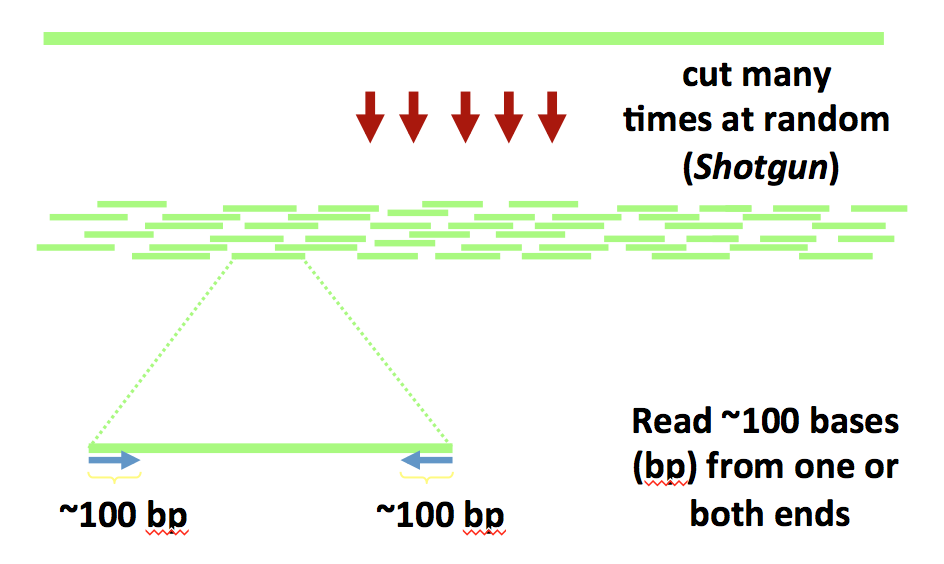
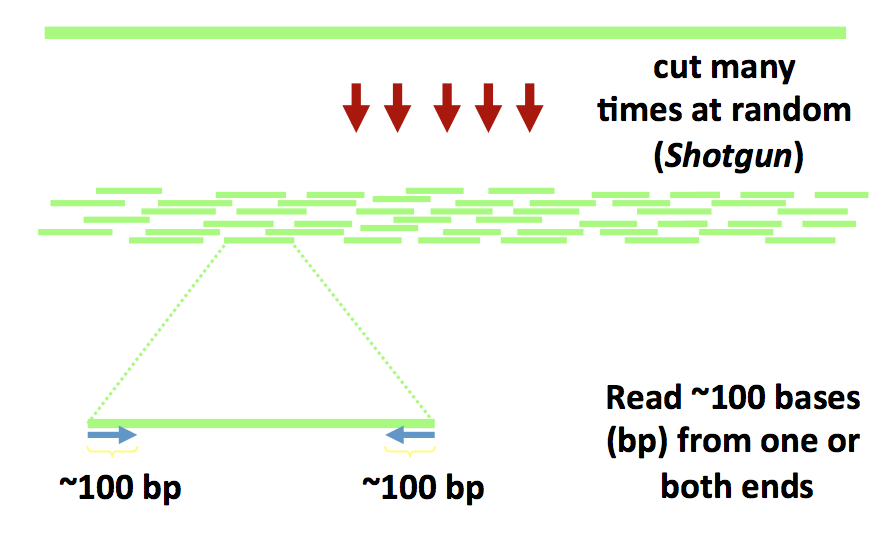
Figure and table cleanup

diff --git a/main.tex b/main.tex
@@ -1,6 +1,6 @@
 \documentclass{acm_proc_article-sp}
 
-
+\usepackage{array}
 \usepackage{caption}
 \usepackage{subfig}
 \captionsetup[subfigure]{margin=5pt}
@@ -94,7 +94,7 @@ As a result, the amount of genomic data available to
 researchers is increasing by a factor of ten every year.
 
 % YWY: Take spell-check lines out of figure axes labels! (TeraFLOPS, KiloBase)
-\begin{figure}[htb!]
+\begin{figure*}[htb!]
 \centering
 \subfloat[Growth of genomic sequence data (orange) as compared with the combined power of the top-500 supercomputer list (blue); y-axis is logarithmic]{
 \includegraphics[width=2.8in]{assets/moore.png}
@@ -106,7 +106,7 @@ researchers is increasing by a factor of ten every year.
 }
 \caption[Sequencing vs. Storage]{(a) Moore's and (b) Kryder's laws contrasted with genomic sequence data}
 \label{fig:growth}
-\end{figure}
+\end{figure*}
 
 This growth in data poses significant challenges for 
 researchers~\cite{marx2013biology}.
@@ -291,15 +291,15 @@ As read mapping is typically the most costly step in NGS analysis pipelines (e.g
 
 
 
-% YWY: Take spell-check lines out of figure labels! (bp, Samtools)
-\begin{figure}[htb!]
+
+\begin{figure*}[htb!]
 \centering
 \subfloat[`Shotgun' sequencing breaks DNA molecules into many short fragments, which are read from one or both ends in the form of {\em reads,\/} and relies on high coverage to produce a statistically likely representation of a whole genome]{
-\includegraphics[width=2.6in]{assets/shotgun.png}
+\includegraphics[height=2.6in]{assets/shotgun.png}
 \label{fig:shotgun}
 }
 \subfloat[Single-nucleotide polymorphisms, or SNPs, are the simplest type of genomic variant, and form the bulk of `variant-calling' analysis]{
-\includegraphics[width=2.6in]{assets/snps.png}
+\includegraphics[height=2.6in]{assets/snps.png}
 \label{fig:snps}
 }\\
 \subfloat[The NGS downstream analysis pipeline. Shotgun reads are mapped to a reference genome with tools such as BWA or Bowtie. The resulting genomic sequence is analyzed for variants with tools such as GATK or Samtools. This allows relationships between genes and diseases to be uncovered.]{
@@ -308,7 +308,7 @@ As read mapping is typically the most costly step in NGS analysis pipelines (e.g
 }
 \caption[The NGS Pipeline]{The next-generation sequencing (NGS) pipeline.}
 \label{fig:ngs}
-\end{figure}
+\end{figure*}
 
 Driven by the plummeting costs of next-generation sequencing, the 1000 Genomes Project~\cite{10002012integrated} is pursuing a broad catalog of human 
 variation; instead of producing a single reference genome for a species, many
@@ -558,29 +558,23 @@ evolution, only those protein
 sequences which exhibit useful biological function should survive, and most
 random sequences of amino acids would not be expected to form stable structures.
 Thus, not only do biological data exhibit redundancy, they also tend not to 
-inhabit anywhere near the entire feasible space (Figure~\ref{fig:clusters}).
+inhabit anywhere near the entire feasible space (Figure~\ref{fig:dataspace}).
 It seems that physical laws have constrained the data to a particular subspace
 of the enumerable Cartesian space.
 
 \begin{figure}[htb!]
 \centering
-\subfloat[Cartoon depiction of points in an arbitrary high-dimensional space, 
+\includegraphics[width=2.8in]{assets/treepoints-fractal.png}
+\caption{Cartoon depiction of points in an arbitrary high-dimensional space, 
 as might arise from genomes generated by mutation and selection during the 
 course of evolution. 
 Although high-dimensional locally, at the global scale of covering spheres, the 
 data cloud looks nearly 1-dimensional, which enables entropy-scaling of 
 similarity search. Clusters cover the data points but do not cover unoccupied 
-regions of space.]{
-\includegraphics[width=2.8in]{assets/treepoints.pdf}
-\label{fig:clusters}
-}
-\subfloat[A query (green triangle) and two concentric search radii (red 
+regions of space.
+The green triangle represents a query, with two concentric search radii (red 
 circles) around it. Thanks to low fractal dimension, the large circle does
-not contain vastly more points than the small circle.]{
-\includegraphics[width=2.8in]{assets/treepoints-fractal.png}
-\label{fig:fractal}
-}
-\caption[Data spaces.]{A cartoon illustration of a biological data space.}
+not contain vastly more points than the small circle.}
 \label{fig:dataspace}
 \end{figure}
 
@@ -592,7 +586,7 @@ low \emph{metric entropy}~\cite{yu2015entropy}.
 That is, for a given cluster radius $r_c$ and a database $D$, the number $k$ 
 of clusters needed to cover $D$ is bounded by $N_{r_c} (D)$, the metric 
 entropy, which is relatively small compared to
-$|D|$, the number of entries in the database (Figure~\ref{fig:clusters}).
+$|D|$, the number of entries in the database (Figure~\ref{fig:dataspace}).
 In contrast, if the points were uniformly distributed about the Cartesian space,
 $N_{r_c} (D)$ would be larger.
 
@@ -600,19 +594,19 @@ A second key insight is that the biological data sets have low \emph{fractal dim
 That is, within some range of radii $r_1$ and $r_2$ about an arbitrary point
 in the database $D$, the fractal dimension $d$ is
 $d=\frac{\log (n_2 / n_1)}{ \log (r_2 / r_1)}$, where $n_1$ and $n_2$ are the
-number of points within $r_1$ and $r_2$ respectively (Figure~\ref{fig:fractal}).
+number of points within $r_1$ and $r_2$ respectively (Figure~\ref{fig:dataspace}).
 
 Cluster-based search, as exemplified by ``compressive omics,'' can perform
 approximate search within a radius $r$ of a query $q$ on a database $D$ with 
 fractal dimension $d$ and metric entropy $k$ at the scale $r_c$ in time
 proportional to
-\[
+\begin{displaymath}
     O\Bigg(
     \underbrace{k}_{\textrm{metric entropy}} +
     \overbrace{\left|B_D(q,r)\right|}^{\textrm{output size}}
     \underbrace{\left(\frac{r+2r_c}{r}\right)^d}_{\textrm{scaling factor}}
      \Bigg) .
-\]
+\end{displaymath}
 
 Given this formalization, the ratio $\frac{|D|}{k}$ provides an estimate of the 
 speed-up factor for the coarse search component compared to a full linear 
@@ -630,22 +624,27 @@ This combination results in low fractal dimension and low metric entropy
 relative to the size of the data set, which suggests that `compressive omics'
 will provide the ability for computation to scale sublinearly with massively growing data.
 
+\newcolumntype{H}[1] {%
+>{\raggedright}%
+p{#1}}
+
 \begin{table}
 \label{fractal}
 \caption{Metric entropy ratio (ratio of clusters to entries in database) and
 fractal dimension at typical search radii for four biological data sets.
 NCBI's `NR' non-redundant protein sequence and `NT' non-redundant nucleotide sequence databases are from June, 2015. Protein Databank (PDB) is from July, 2015. PubChem is from October, 2013.}
-\begin{tabular}{ccc}
+\tabcolsep=0.11cm
+\begin{tabular}{H{3.0cm}p{2.2cm}p{1.8cm}}
 \hline
 Data set & Metric entropy ratio & Fractal dimension \\        
 \hline
-Nucleotide sequences (NCBI NT) & 7:1 & 1.5\\
+Nucleotide~sequences (NCBI NT) & 7:1 & 1.5\\
 \hline
-Protein sequences (NCBI NR) & 5:1 & 1.6\\
+Protein~sequences (NCBI NR) & 5:1 & 1.6\\
 \hline
-Protein structure (PDB) & 10:1 & 2.5\\
+Protein~structure (PDB) & 10:1 & 2.5\\
 \hline
-Chemical structure (PubChem) & 11:1 & 0.2\\
+Chemical~structure (PubChem) & 11:1 & 0.2\\
 \hline
 \end{tabular}
 \end{table}
